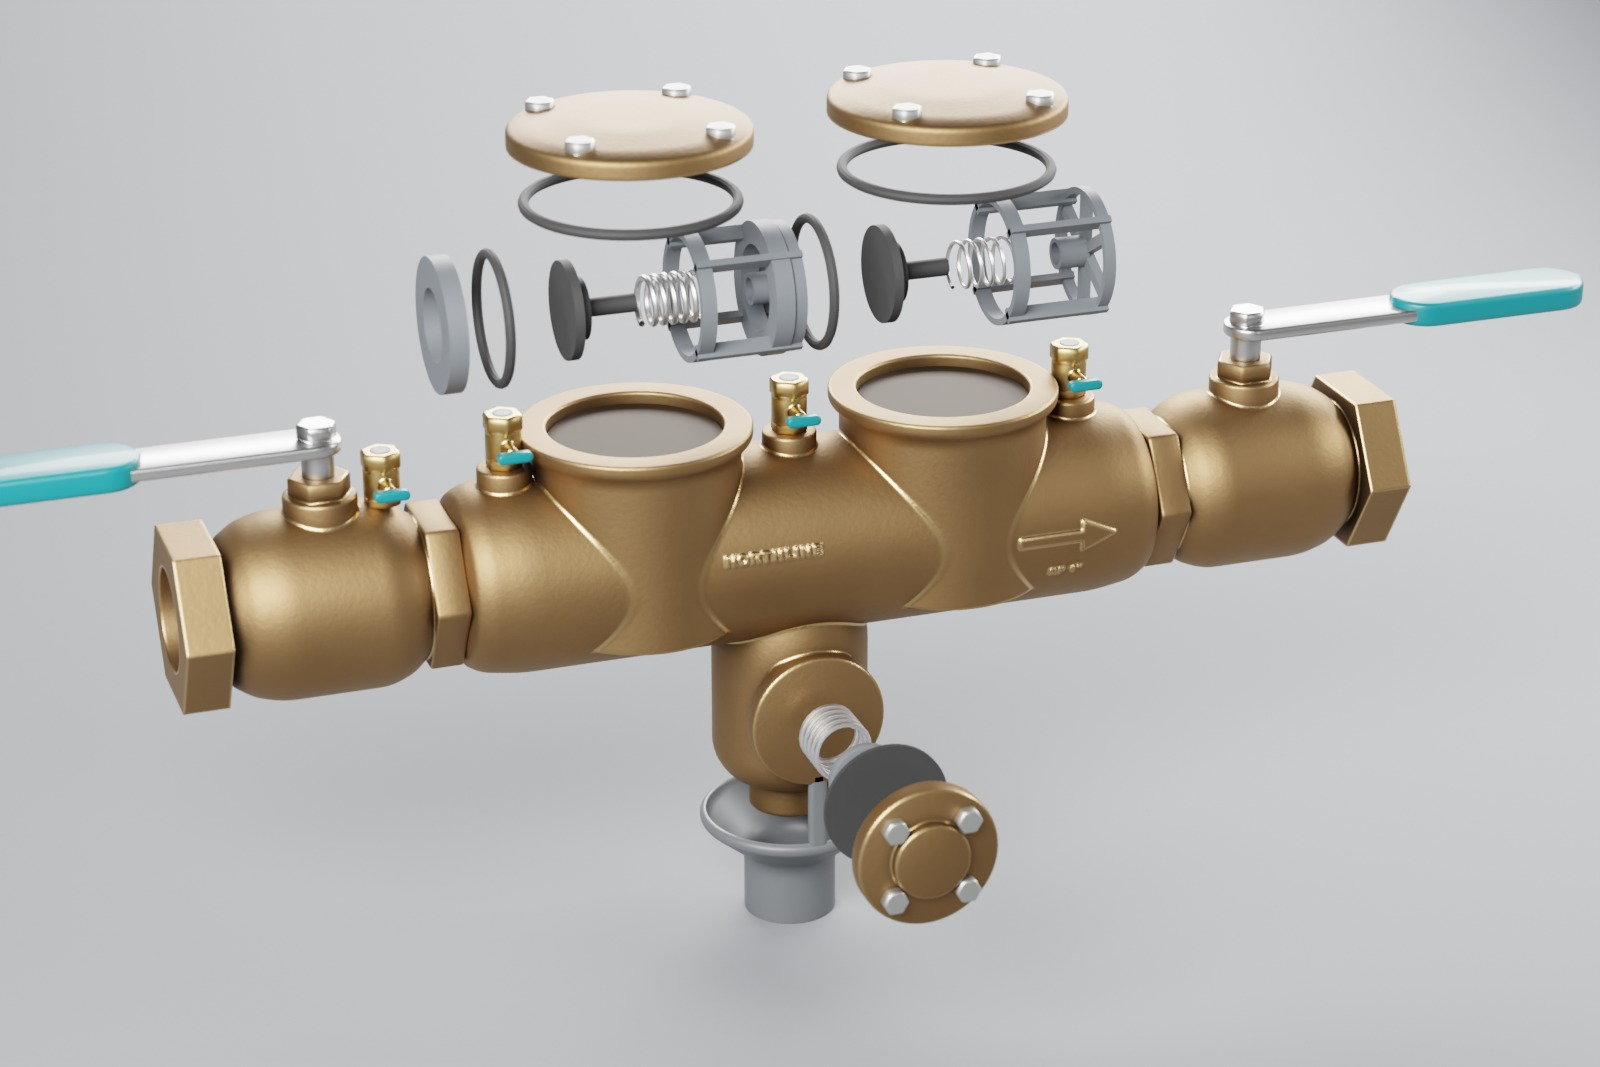
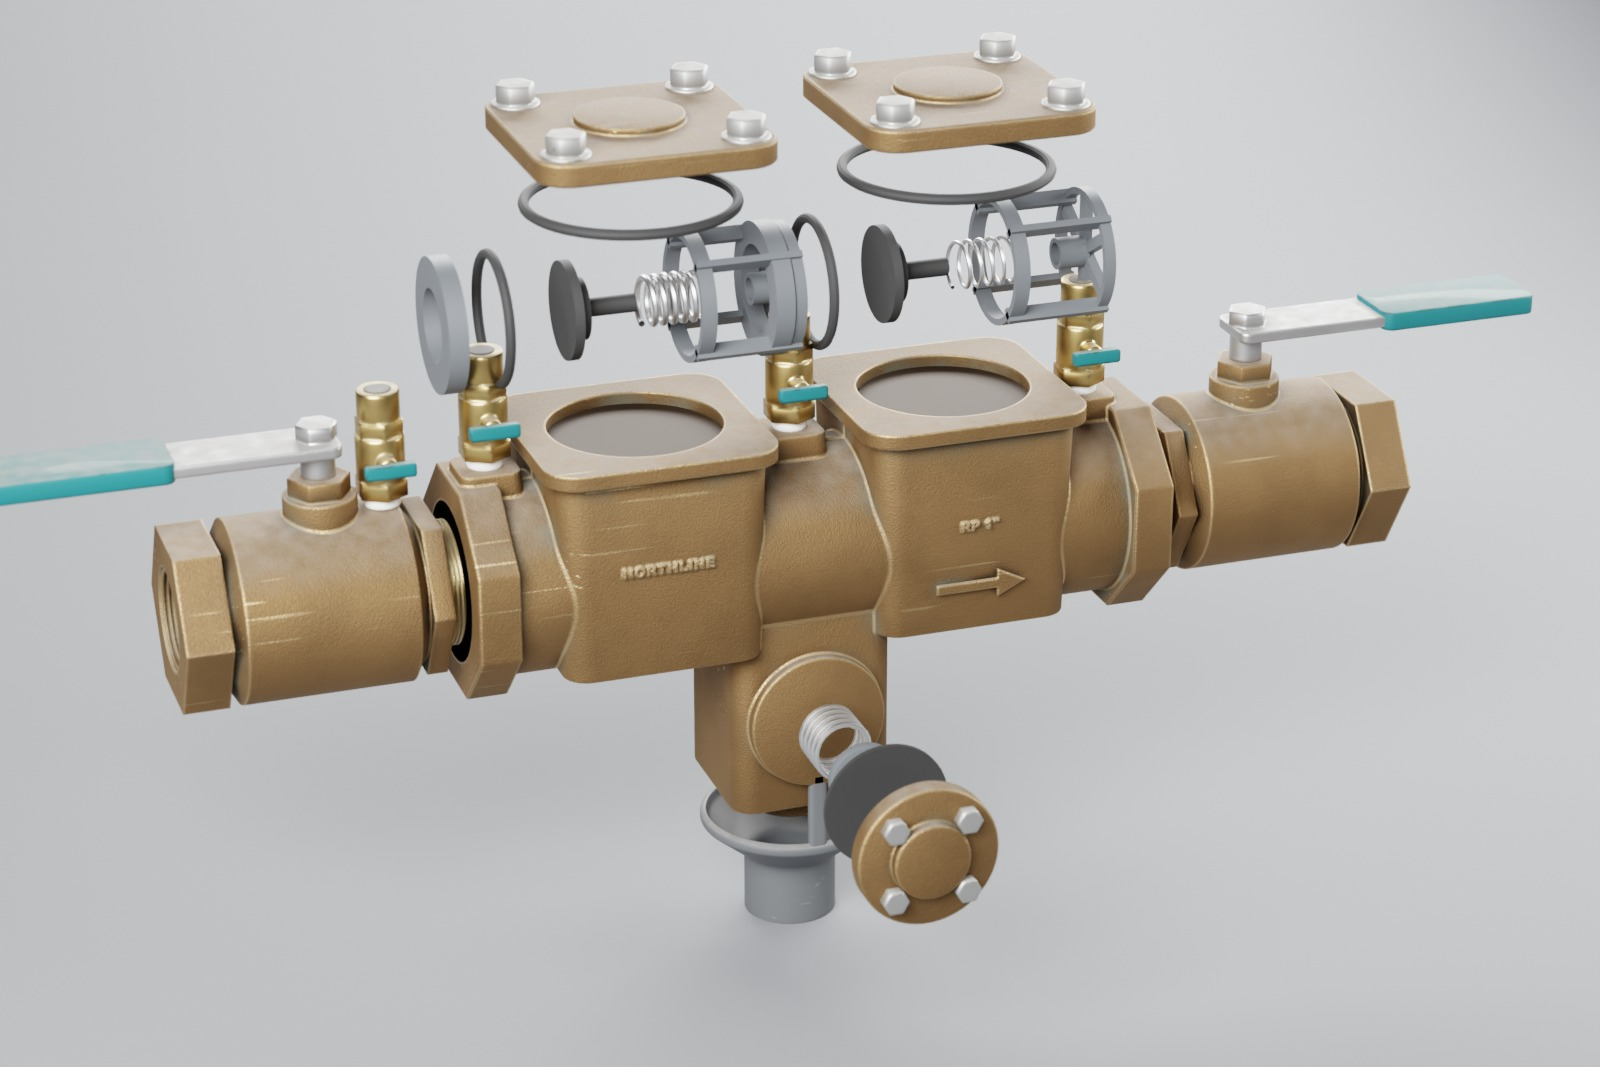
northline: gallery renders from the industrial v6 rebuild with lived-in materials; hub note

diff --git a/hub/index.html b/hub/index.html
@@ -160,8 +160,8 @@
       <td class="n">Draft. Model rebuilt in Blender from the spec-sheet photo (Revit used for layout only); internals modeled from the manual's exploded drawing. Next: consumer Watts product, optional Figurement renders.</td></tr><tr class="keep">
       <td><a href="/northline-rpz.html" target="_blank">northline-rpz.html</a><div class="grp">Generic / Tradeshow</div></td>
       <td>Brand-neutral twin of the Watts page: fictional "Northline Flow Controls" NRP-200 RPZ (reduced pressure zone) backflow preventer, built so it does NOT read as any real product (teal quarter-turn levers, two round 4-bolt check covers, front-access relief valve, grey air-gap funnel, NORTHLINE cast on body). Same three tabs (Product / Replacement Parts with Outside-Inside callouts / 10-step Install &amp; Service incl. air-gap drain + relief valve service, lever quarter-turn animation), Renders gallery, QR/AR, real GLB download. Fictional part numbers NL-10441..3 (kits RT / CK / RV); footer says brand + specs are illustrative.</td>
-      <td class="d">2026-10-07</td>
-      <td class="u"><code>tradeshows</code> ws (3 platform hotspots via API: relief valve, air gap, check covers): NRP-200 v3 <code>872c460e</code> (v2 <code>645ce7af</code> superseded, z-fighting under covers). Source: admin/rpz/build_rpz.py (headless Blender, reuses Watts materials from admin/watts/2000B-FP_v6.blend) + vlib.py helpers + render_rpz.py. Renders in assets/northline/ (v2 photoreal pass: admin/watts/render_v2/render_rpz_v2.py).</td>
+      <td class="d">2026-10-16</td>
+      <td class="u"><b>2026-10-16:</b> gallery re-rendered from the industrial rebuild <code>northline_rpz_v6</code> (admin/rpz/build_rpz_v6.py: flat-sided check housings + seat flanges, flat bolted covers, parting lines, octagon wrench flats, chunkier test fittings on cast risers, cylindrical ball valves, hex unions with bare thread, stamped levers; harsh-edge wrapper) with the lived-in material pass (WEAR=1 in render_rpz_v2.py: sand-cast grain, grime, scratches, muted verdigris). The 3D viewer still loads v3 until v6 GLB is uploaded (platform processing stuck, with Model Ops). <code>tradeshows</code> ws (3 platform hotspots via API: relief valve, air gap, check covers): NRP-200 v3 <code>872c460e</code> (v2 <code>645ce7af</code> superseded, z-fighting under covers). Source: admin/rpz/build_rpz.py (headless Blender, reuses Watts materials from admin/watts/2000B-FP_v6.blend) + vlib.py helpers + render_rpz.py. Renders in assets/northline/ (v2 photoreal pass: admin/watts/render_v2/render_rpz_v2.py).</td>
       <td class="n">For B2B eComm World booth, social, other prospects. Page generated from watts.html (scratchpad mk_northline.py); fix here moves only top-level part objects (Watts page still double-applies offsets but is tuned to look right).</td></tr><tr class="keep">
       <td><a href="/fluent-index.html" target="_blank">fluent-index.html</a><div class="grp">Fluent</div></td>
       <td>Fluent Conveyors replacement-parts index. Links the two interactive Fluent product explorers (impact bed, helical drive). Client-branded (quiet).</td>

diff --git a/northline-rpz.html b/northline-rpz.html
@@ -786,9 +786,9 @@ $("resetBtn").onclick=()=>{ applyTabState(); };
 
 /* ---------------- renders + Revit overlay ---------------- */
 const RENDERS=[["hero","Hero, three-quarter"],["front","Front elevation"],["top","Top three-quarter"],["detail","Relief valve and air gap"],["service","Service view, checks and relief removed"]];
-$("gallery").innerHTML=RENDERS.map(([k,c],i)=>`<figure data-i="${i}"><img src="assets/northline/render_${k}.jpg?v=2" alt="${c}" loading="lazy"><figcaption>${c}</figcaption></figure>`).join("");
-$("thumbs").innerHTML=RENDERS.map(([k,c],i)=>`<img data-i="${i}" src="assets/northline/render_${k}.jpg?v=2" alt="${c}">`).join("");
-function showRender(i){ $("renderImg").src=`assets/northline/render_${RENDERS[i][0]}.jpg?v=2`; $("thumbs").querySelectorAll("img").forEach(t=>t.classList.toggle("on",+t.dataset.i===i)); }
+$("gallery").innerHTML=RENDERS.map(([k,c],i)=>`<figure data-i="${i}"><img src="assets/northline/render_${k}.jpg?v=3" alt="${c}" loading="lazy"><figcaption>${c}</figcaption></figure>`).join("");
+$("thumbs").innerHTML=RENDERS.map(([k,c],i)=>`<img data-i="${i}" src="assets/northline/render_${k}.jpg?v=3" alt="${c}">`).join("");
+function showRender(i){ $("renderImg").src=`assets/northline/render_${RENDERS[i][0]}.jpg?v=3`; $("thumbs").querySelectorAll("img").forEach(t=>t.classList.toggle("on",+t.dataset.i===i)); }
 $("thumbs").addEventListener("click",e=>{ const t=e.target.closest("img"); if(t) showRender(+t.dataset.i); });
 $("gallery").addEventListener("click",e=>{ const f=e.target.closest("figure"); if(!f) return; setTab("product"); setMode("renders"); showRender(+f.dataset.i); window.scrollTo({top:0,behavior:"smooth"}); });
 function setMode(m){
